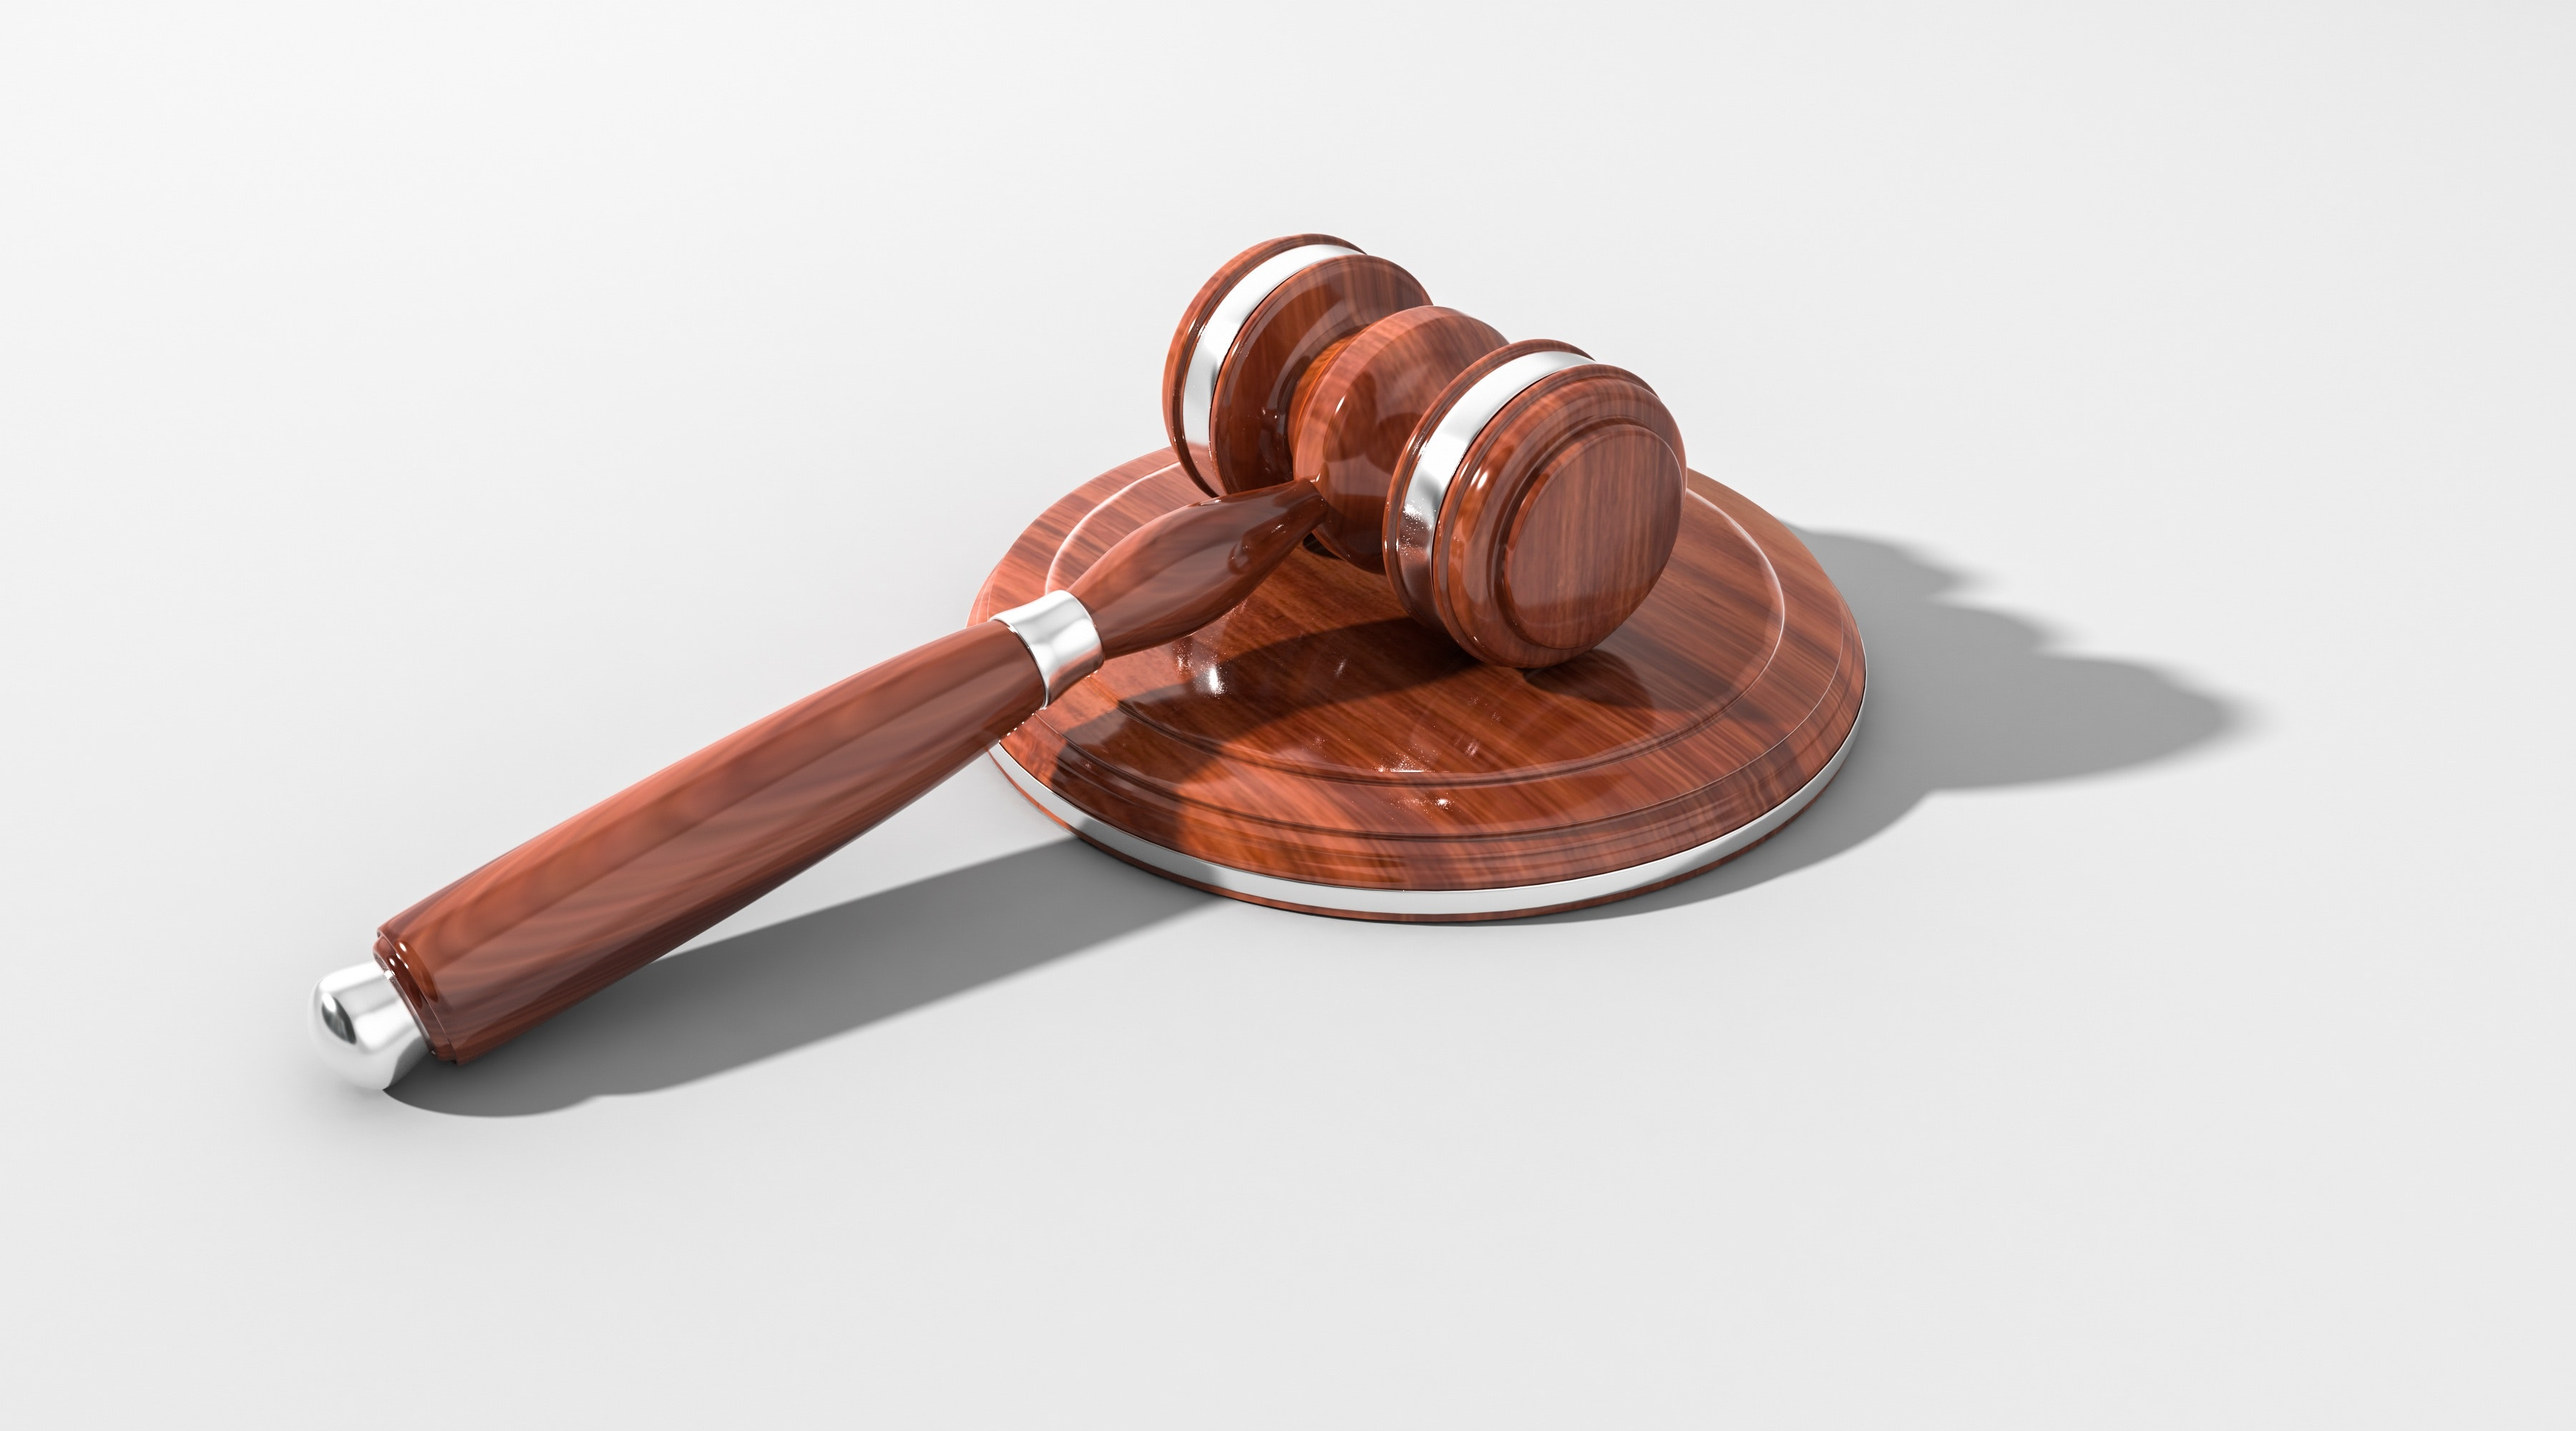
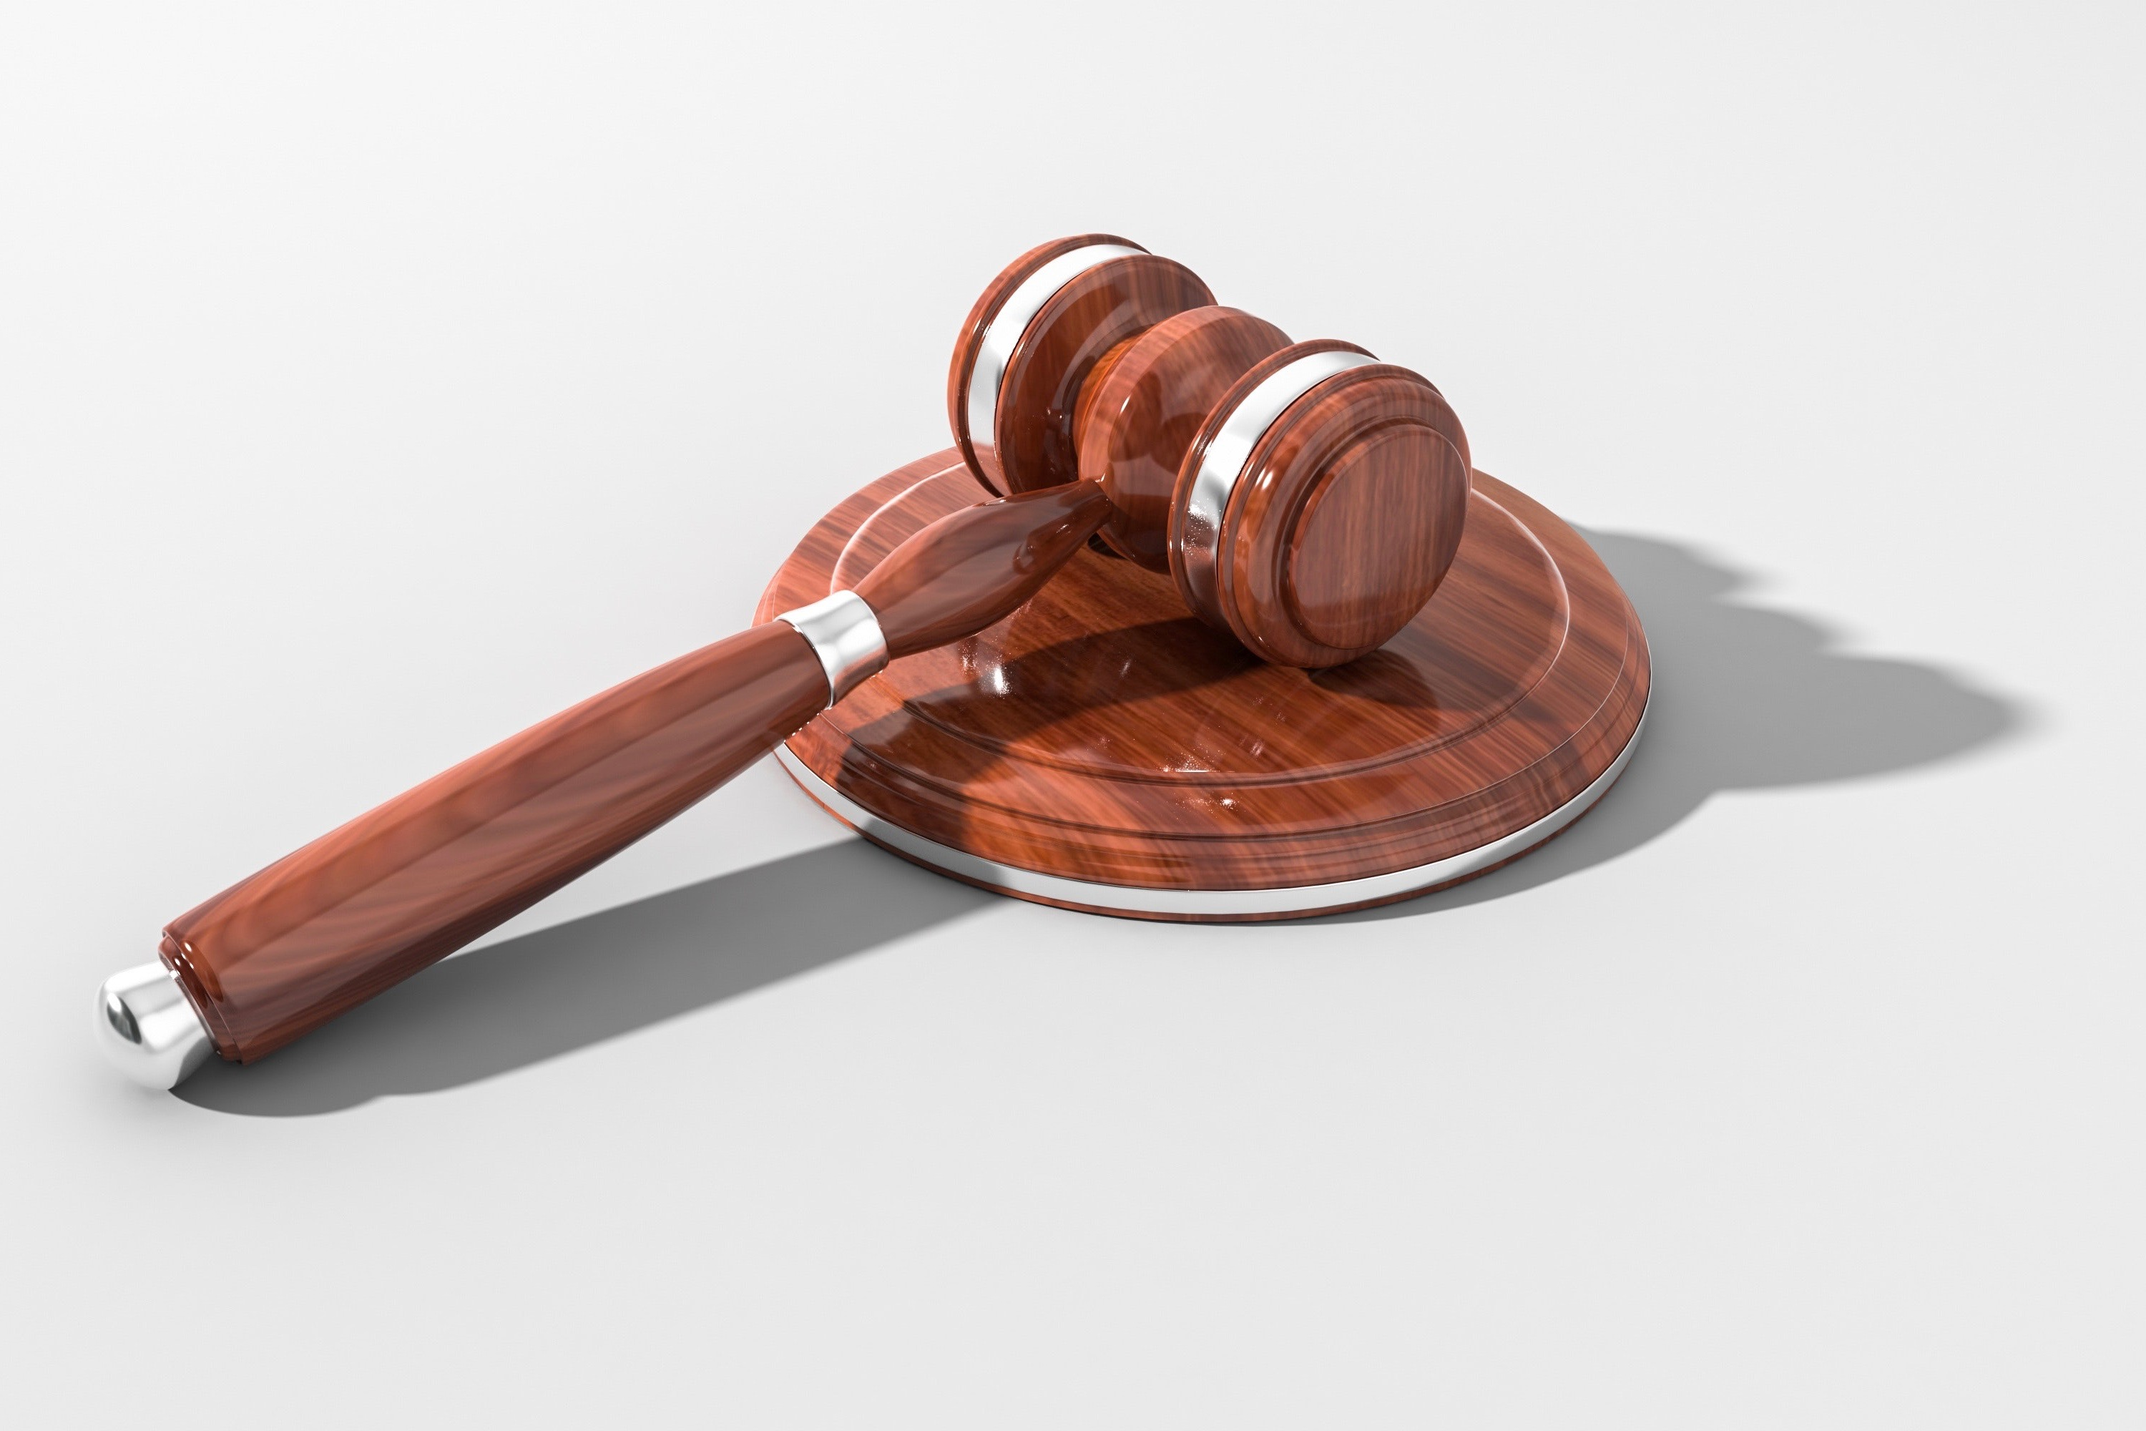
Updated photos on Areas of Expertise page

Changed region(s): [[0.031, 0.155, 0.961, 0.806]]

diff --git a/expertise.html b/expertise.html
@@ -114,7 +114,7 @@
                             <div class="w3-third">
                                 <div class="w3-card expertise-card">
                                     <h5>Regulated Products</h5>
-                                    <img src="assets/images/dome.jpg" style="width:100%">
+                                    <img src="assets/images/regulatedindustry.jpg" style="width:100%">
                                 </div>
                             </div>
                         </div>
